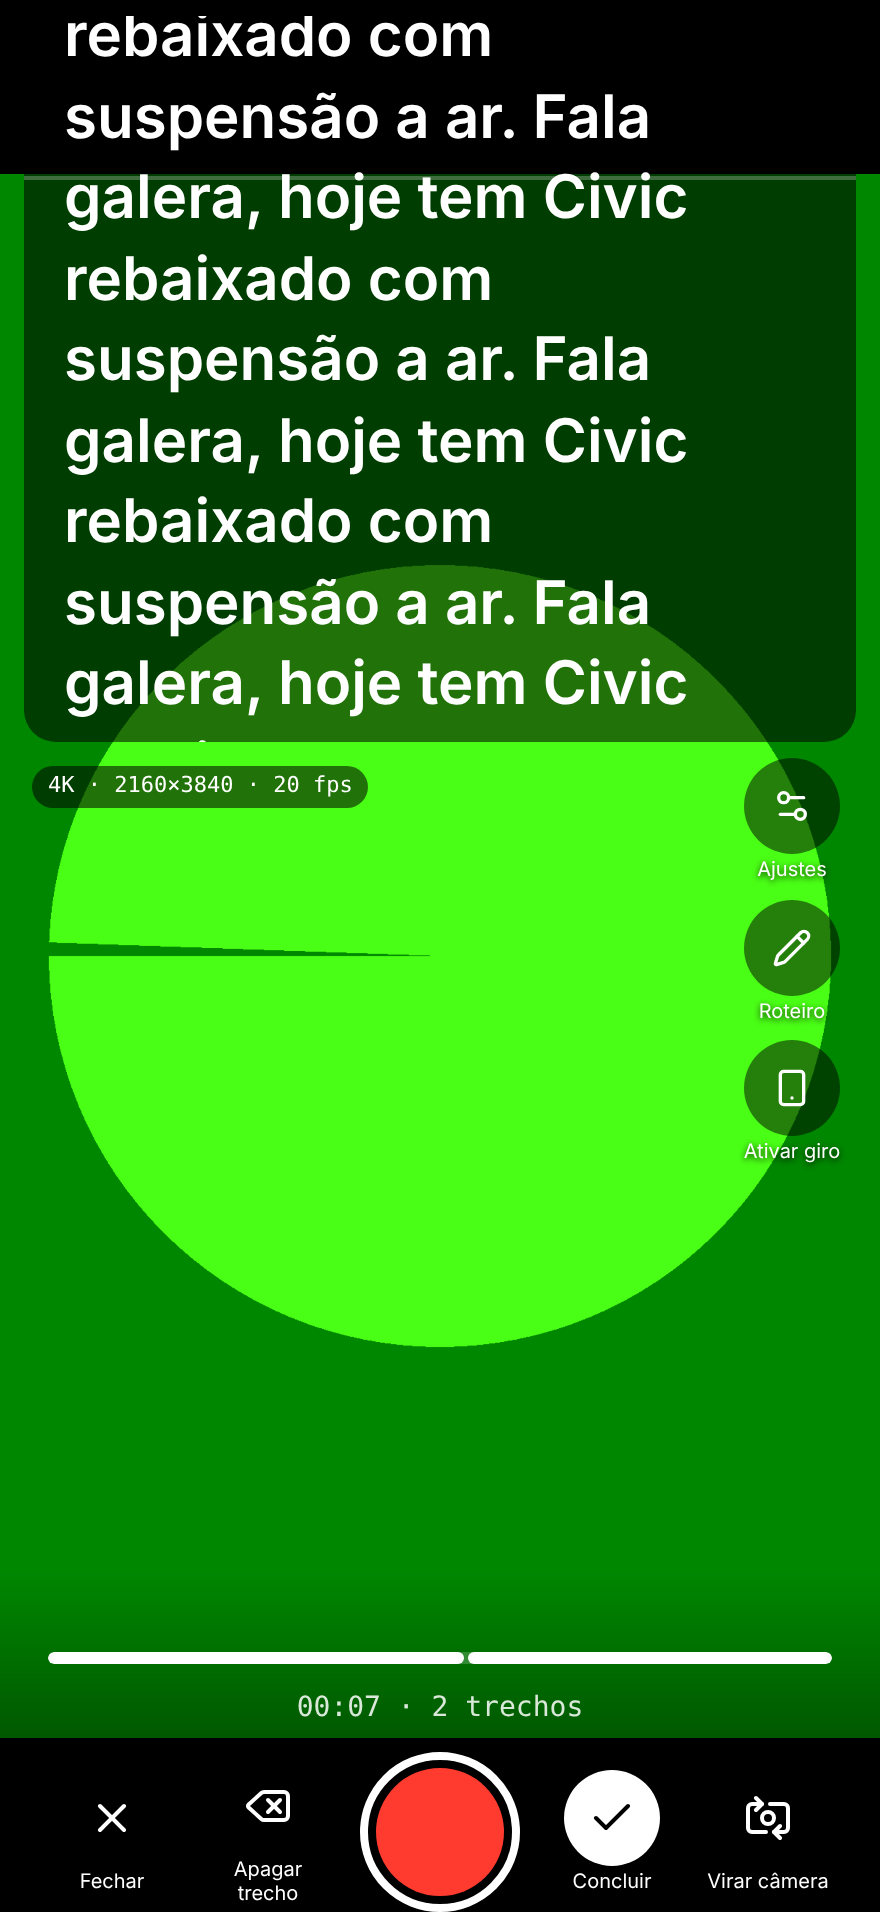
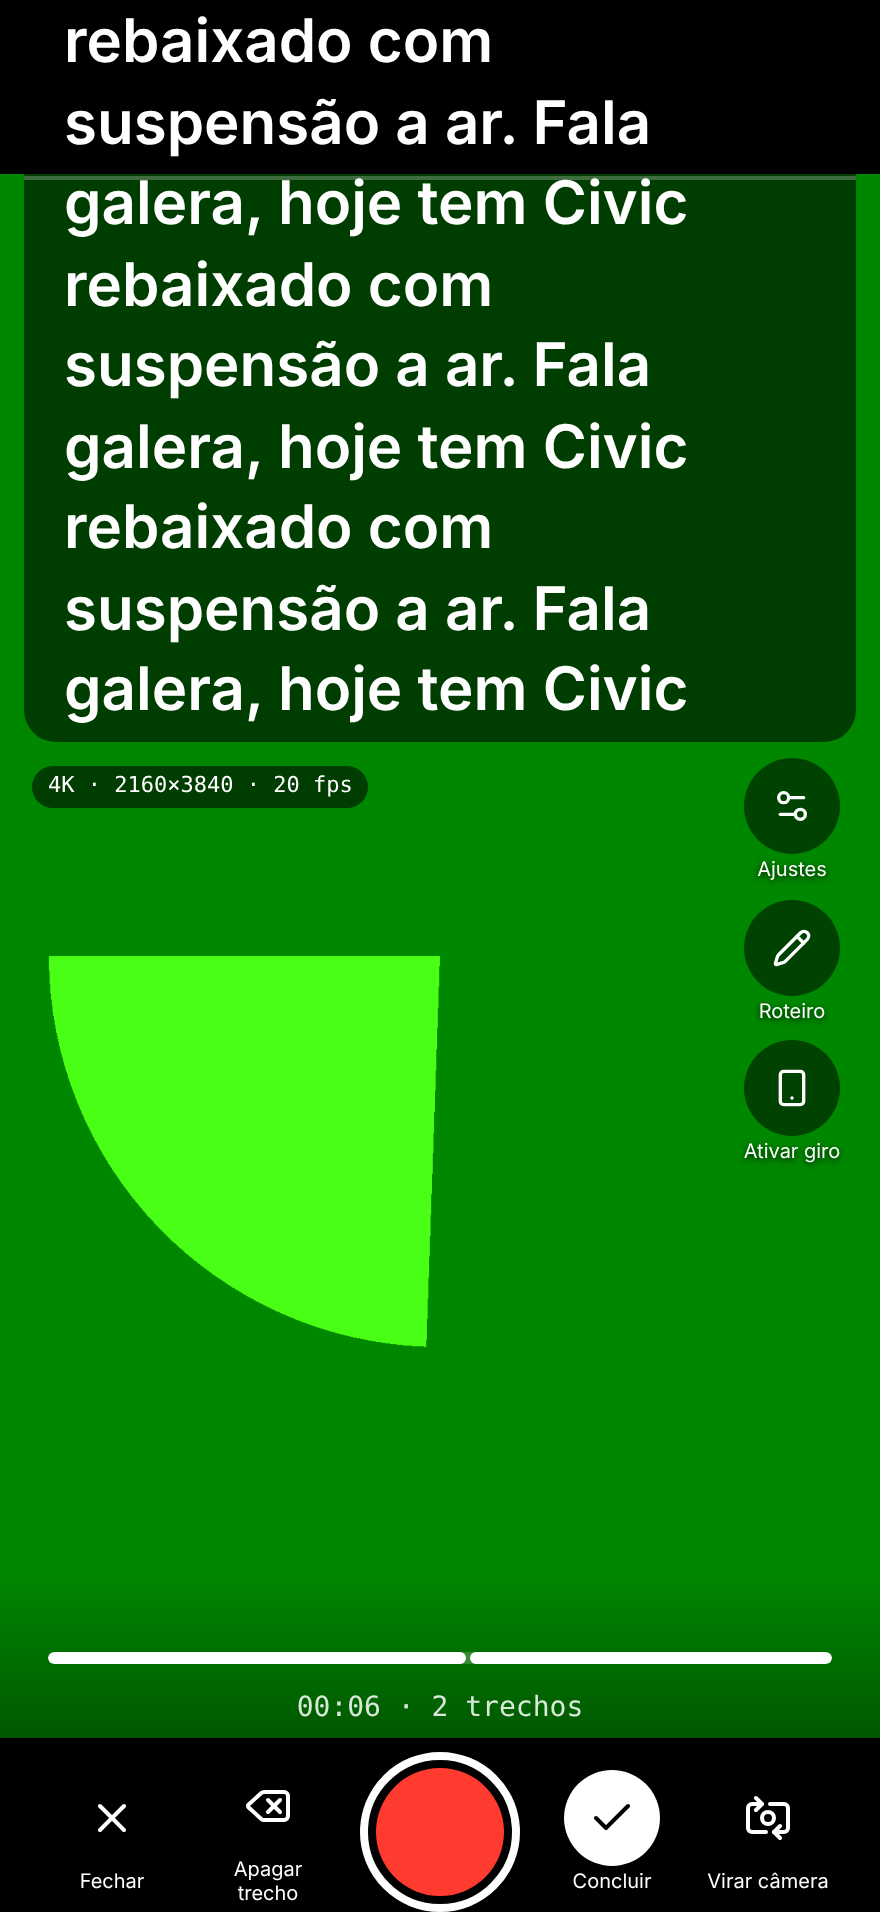
Teleprompter: smooth text drag with momentum
The preview is drawn only when the camera has a new picture instead of on
every screen refresh, the text moves on its own layer, and a flick glides
on and slows down like the phone's own scrolling.

Claude-Session: https://claude.ai/code/session_0171u1mNBnwSWvSmcMh16wpa

Changed region(s): [[0.0614, 0.0, 0.9511, 0.7097], [0.6136, 0.0309, 0.7977, 0.1234], [0.6136, 0.1543, 0.7977, 0.2469]]

diff --git a/app/src/screens/Teleprompter.tsx b/app/src/screens/Teleprompter.tsx
@@ -557,11 +557,26 @@ function CameraPrompter({
     if (!v || !c) return;
     let stop = false;
     let raf = 0;
-    const draw = () => {
+    // Drawn only when the camera has a new picture (30 or 60 a second), not
+    // on every screen refresh (120 on an iPhone Pro): a 4K draw each time
+    // left the phone too busy to move the text smoothly.
+    const vf = v as HTMLVideoElement & { requestVideoFrameCallback?: (cb: () => void) => number };
+    const byFrame = "requestVideoFrameCallback" in v;
+    let fresh = true;
+    let drawn = 0;
+    const onFrame = () => {
+      fresh = true;
+      if (!stop) vf.requestVideoFrameCallback?.(onFrame);
+    };
+    vf.requestVideoFrameCallback?.(onFrame);
+    const draw = (now: number) => {
       if (stop) return;
       raf = requestAnimationFrame(draw);
+      if (byFrame && !fresh && now - drawn < 250) return;
       const { horizontal: hz, side: sd, size: sz } = live.current;
       if (!sz || v.readyState < 2 || !v.videoWidth) return;
+      fresh = false;
+      drawn = now;
       // the old camera already stopped, the new one not here yet: the last picture stays
       if ((v.srcObject as MediaStream | null)?.getVideoTracks()[0]?.readyState !== "live") return;
       const t = pictureTurn(hz, v.videoWidth > v.videoHeight, sd, shownRef.current);
@@ -604,7 +619,7 @@ function CameraPrompter({
   );
 
   const place = () => {
-    if (textEl.current) textEl.current.style.transform = `translateY(${-scroll.current}px)`;
+    if (textEl.current) textEl.current.style.transform = `translate3d(0, ${-scroll.current}px, 0)`;
   };
   // the text where it was left (after editing the script, or a take deleted)
   useEffect(place, [segments.length]);
@@ -713,25 +728,54 @@ function CameraPrompter({
   // (horizontal), the reader's up and down run across the glass.
   const ui = uiTurn(side);
   const along = (e: PointerEvent) => (!horizontal ? e.clientY : ui > 0 ? -e.clientX : e.clientX);
-  const drag = useRef<{ y: number; s: number; moved: boolean } | null>(null);
+  // The text follows the finger and, let go with a flick, glides on and
+  // slows down like a phone's own scrolling, so any part is quickly reached.
+  const drag = useRef<{ y: number; s: number; moved: boolean; v: number; at: number; last: number } | null>(null);
+  const glide = useRef(0);
+  const clampScroll = (y: number) => Math.max(0, Math.min(textEl.current?.scrollHeight ?? 0, y));
   function down(e: PointerEvent) {
-    (e.currentTarget as HTMLElement).setPointerCapture(e.pointerId);
-    drag.current = { y: along(e), s: scroll.current, moved: false };
+    try {
+      (e.currentTarget as HTMLElement).setPointerCapture(e.pointerId);
+    } catch {
+      // a pointer already gone: the drag still follows it over the box
+    }
+    cancelAnimationFrame(glide.current);
+    const y = along(e);
+    drag.current = { y, s: scroll.current, moved: false, v: 0, at: performance.now(), last: y };
   }
   function move(e: PointerEvent) {
     const d = drag.current;
     if (!d) return;
-    const dy = along(e) - d.y;
+    const y = along(e);
+    const dy = y - d.y;
     if (Math.abs(dy) > 6) d.moved = true;
     if (!d.moved) return;
-    scroll.current = Math.max(0, Math.min(textEl.current?.scrollHeight ?? 0, d.s - dy));
+    const now = performance.now();
+    const dt = now - d.at;
+    if (dt > 0) d.v = 0.7 * ((d.last - y) / dt) + 0.3 * d.v; // px per ms, smoothed
+    d.at = now;
+    d.last = y;
+    scroll.current = clampScroll(d.s - dy);
     place();
   }
   function up() {
     const d = drag.current;
     drag.current = null;
     if (d && !d.moved && recording) setPaused((p) => !p);
+    if (!d?.moved || performance.now() - d.at > 80 || Math.abs(d.v) < 0.2) return;
+    let v = d.v;
+    let t = performance.now();
+    const step = (now: number) => {
+      const dt = Math.min(32, now - t);
+      t = now;
+      scroll.current = clampScroll(scroll.current + v * dt);
+      place();
+      v *= Math.pow(0.997, dt); // friction, about like iOS scrolling
+      if (Math.abs(v) > 0.02) glide.current = requestAnimationFrame(step);
+    };
+    glide.current = requestAnimationFrame(step);
   }
+  useEffect(() => () => cancelAnimationFrame(glide.current), []);
 
   const front = shown === "user";
   // Horizontal: the controls, the text and the frame turn to face whoever
@@ -797,7 +841,7 @@ function CameraPrompter({
             fontSize: settings.fontSize,
             lineHeight: 1.35,
             color: settings.color,
-            transform: "translateY(0px)",
+            willChange: "transform", // its own layer: moving it repaints nothing
             ...(settings.mirror ? { scale: "-1 1" } : {}),
           }}
         >
